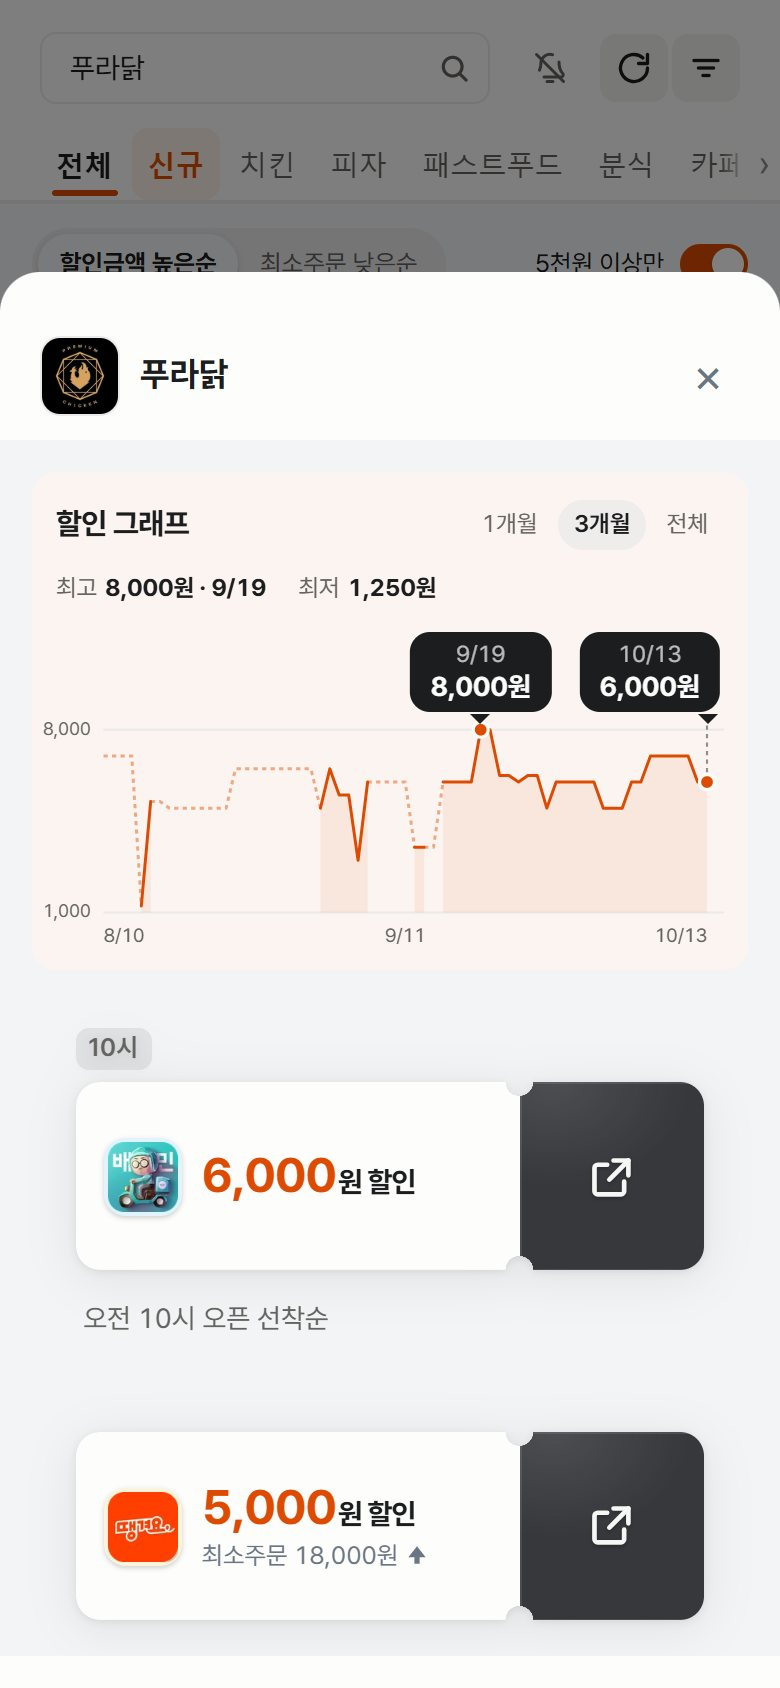
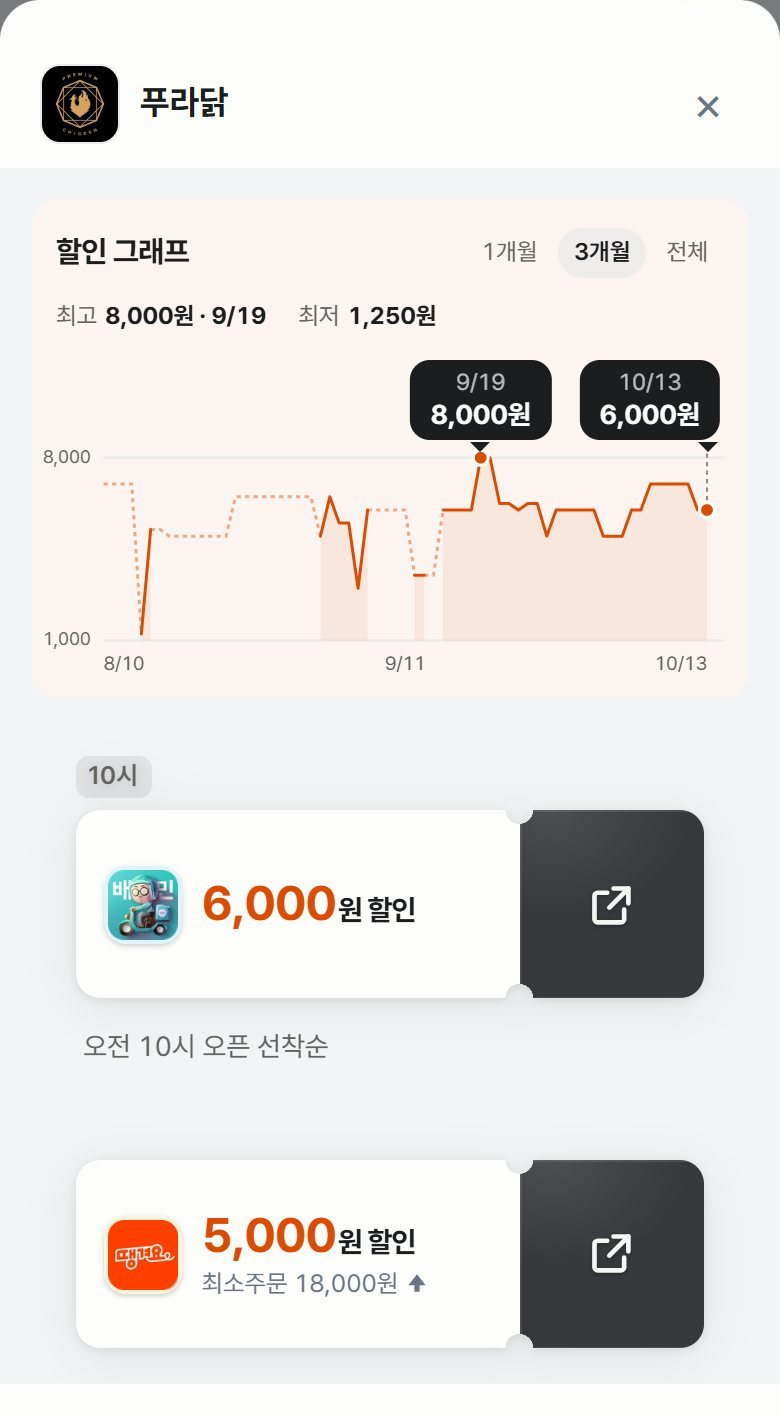
fix(web): 소개 3장 폰 화면을 시트 머리부터 보이게 잘라 그래프가 안 잘리게
Claude-Session: https://claude.ai/code/session_01UXM6aRmYeLrrFLrm9HHFa6

diff --git a/web/public/about/index.html b/web/public/about/index.html
@@ -70,6 +70,8 @@
     .snaps img:nth-child(3) { left: 18%; bottom: 0; width: 58%; z-index: 1; }
     .js .in .snaps img.rise:nth-child(1) { transform: rotate(-3deg); }
     .js .in .snaps img.rise:nth-child(2) { transform: rotate(3deg); }
+    .phone img.fit-w { height: auto; object-fit: initial; }
+    #s3 .phone__screen { background: #f1f2f4; }
     @media (max-width: 767px) { .snaps { width: min(100%, 340px); margin-top: 18px; } }
 
     /* 모바일: 폰을 크게 두고 아래는 화면 밖으로 흘린다 */
@@ -150,7 +152,7 @@
           </div>
         </div>
         <div class="phone rise" style="--i:2">
-          <div class="phone__screen"><img src="/about/history.jpg" width="390" height="844" alt="푸라닭 바텀시트. 3개월 할인 그래프와 배민, 땡겨요 쿠폰." /></div>
+          <div class="phone__screen"><img class="fit-w" src="/about/history.jpg" width="780" height="1416" alt="푸라닭 바텀시트. 3개월 할인 그래프와 배민, 땡겨요 쿠폰." /></div>
         </div>
       </div>
       <a class="next" href="#s4" aria-label="다음"><svg viewBox="0 0 20 20" fill="none" stroke="currentColor" stroke-width="2" stroke-linecap="round"><path d="M5 8l5 5 5-5" /></svg></a>
